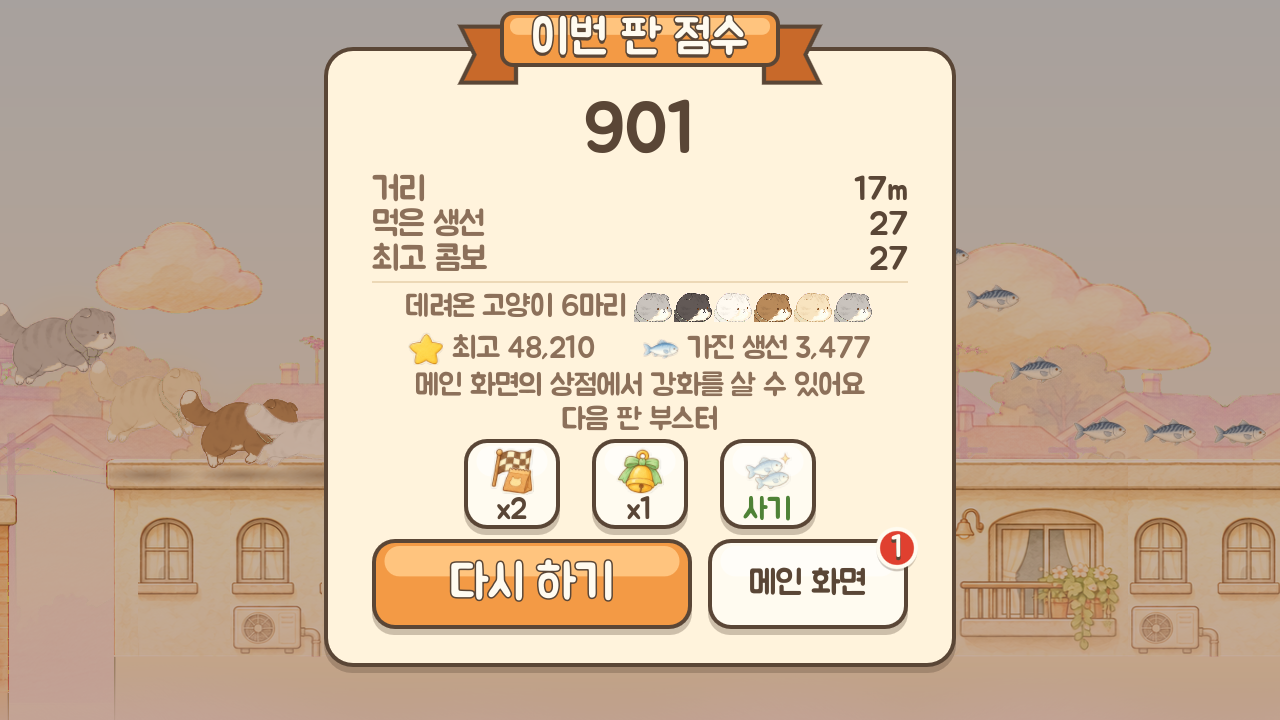
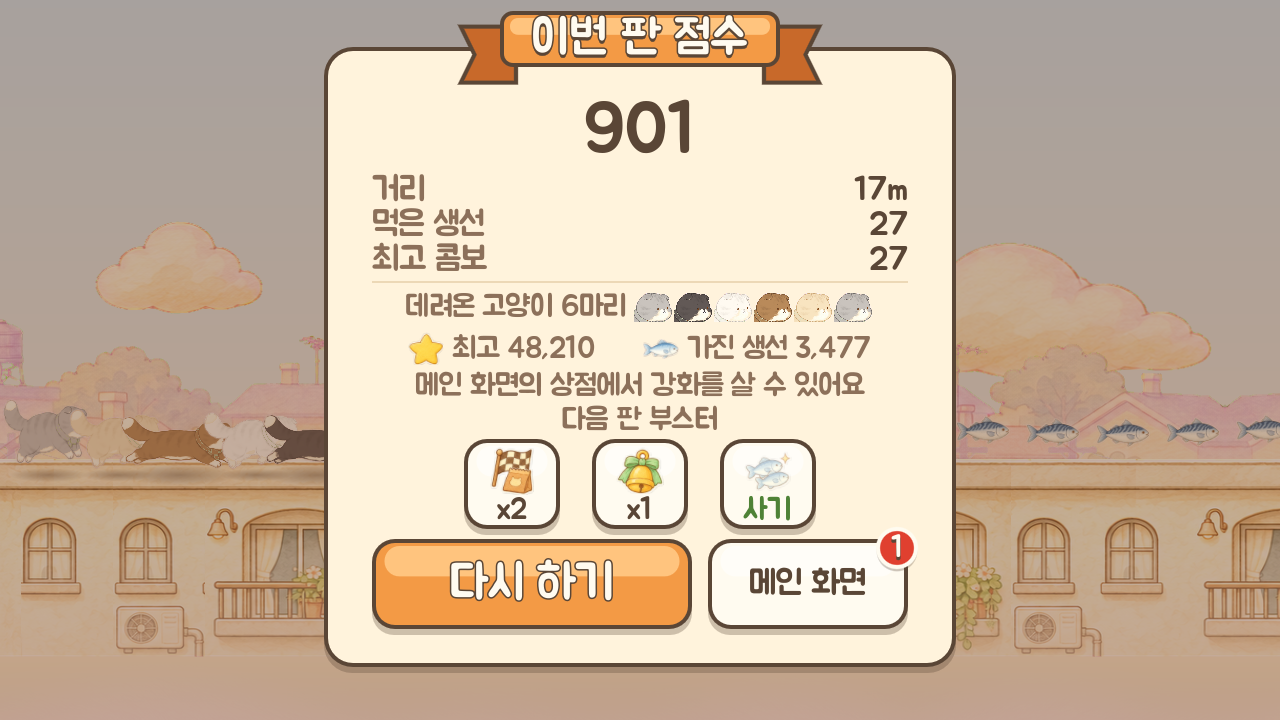
줄줄이 시험판 피드백: 부딪힘 A 확정(B·A/B 단추 지움), 아기 고양이 0.56배·간격 115/69, 6마리 PC 앞 시야 0.68→0.80초

diff --git a/review/cat-parade/README.md b/review/cat-parade/README.md
@@ -10,7 +10,8 @@
 | `gap6.gif` / `gap6_slow.gif` | 6마리 줄이 틈을 퐁퐁퐁 건넘 (실제 속도 / 4배 느리게) |
 | `tramp6.gif` | 트램펄린에서 줄이 차례로 튕김 |
 | `dash6.gif` | 질주: 줄도 같은 점프, 부순 화분은 뒤 고양이에게도 없음 |
-| `hit_a.gif` / `hit_b.gif` | 부딪힘 A(하트도 잃음) / B(하트 대신) — 맨 뒤 고양이가 "!" 하고 뛰어올라 뒤처짐 |
+| `hit_a.gif` | 부딪힘 A(하트도 잃음, 2026-11-13 확정) — 맨 뒤 고양이가 "!" 하고 뛰어올라 뒤처짐 |
+| `hit_b.gif` | (지난 시험) 부딪힘 B — 0.75배 때 기록, B는 지움 |
 | `fever_hud6_pc.png` / `_phone.png` | 6마리 골골 피버(은은한 금빛) + HUD 배수·얼굴 줄 |
 | `result6_pc.png` / `_phone.png` | 결과 카드 "데려온 고양이 6마리" + 얼굴 |
 
@@ -18,19 +19,19 @@
 
 ## 정한 수치 (scripts/balance.gd "줄줄이" 절)
 - 만남: 첫 10~15초, 그 뒤 15~25초 (봇 8판 측정: 첫 11.2~15.1초, 간격 15~25초). 화면 오른쪽 밖 옥상, 장애물·트램펄린·아이템 150px 밖, 그 자리 땅 생선은 치움.
-- 간격: 주인공~첫 고양이 105px, 그 뒤 92px (80은 캡처에서 몸이 겹쳐 넓힘). 길고양이 크기 0.75배.
+- 아기 고양이 0.56배, 간격: 주인공~첫 아기 115px, 아기끼리 69px (2026-11-13 피드백 반영, 전에는 0.75배·105·92). 결정 이유는 GAME_SPEC "시험판 뒤 결정".
 - 배수 = 1 + 0.2 x 마리 (1마리 x1.2 … 6마리 x2.2). 거리 점수와 생선 점수에 곱함. 피버 5마리부터.
 - 데려온 고양이 = 판이 끝날 때 줄에 남은 수 (떨어져 끝나도 그때 줄에 있던 수).
 
 ## 앞이 보이는 시간 (6마리, 가장 빠른 속도 950px/초)
-줄이 길면 주인공을 화면 오른쪽으로 옮김: 0~3마리 340px(그대로), 6마리 635px.
-| 화면 | 지금(줄 없음) | 6마리 | 변화 |
+줄이 길면 주인공을 화면 오른쪽으로 옮김 (맨 뒤 아기 발끝이 화면 왼쪽에서 58px 안). 0~3마리는 340px 그대로.
+| 화면 | 줄 없음 | 6마리 전 (0.75배, 주인공 x 635) | 6마리 지금 (0.56배, 주인공 x 518) |
 |---|---|---|---|
-| PC 1280 | 940px = 0.99초 | 645px = 0.68초 | -31% |
-| 휴대폰 (게임 폭 1558) | 1218px = 1.28초 | 923px = 0.97초 | -24% |
-PC 6마리에서 앞이 0.68초뿐이라 빠른 단계에서 위험해질 수 있음. 사용자가 느낌을 본 뒤 정할 것: 간격 줄이기(겹침), 6마리 때 화면 살짝 멀리(질주처럼 0.92배), 또는 이대로.
+| PC 1280 | 940px = 0.99초 | 645px = 0.68초 | 762px = **0.80초** |
+| 휴대폰 (게임 폭 1558) | 1218px = 1.28초 | 923px = 0.97초 | 1040px = **1.09초** |
+자동 테스트 `test_6마리일_때_PC_앞_시야_0_8초_이상`이 지킴. GIF·캡처는 0.56배로 다시 찍음 (hit_b.gif만 예전).
 
-## 밸런스 (봇): [balance.md](balance.md)
+## 밸런스 (봇): [balance.md](balance.md) (0.75배·A/B 시험 때 기록, 크기는 판정과 무관)
 
 ## 알려진 한계 (시험판)
 - 길고양이 그림은 주인공 그림 색만 바꾼 것: 목도리 자리는 연한 털 목둘레로 보임.

diff --git a/GAME_SPEC.md b/GAME_SPEC.md
@@ -159,6 +159,13 @@
 ### 다음 단계
 - 그림 없이 지금 고양이 색만 바꿔 따라오게 한 시험판으로 "귀엽고 지키고 싶어지는가"를 확인한다.
 
+### 시험판 뒤 결정 (2026-11-13, cat-parade 브랜치)
+- 부딪힘은 A로 확정: 하트도 잃고 맨 뒤 고양이도 도망간다 (B "하트 대신 도망"은 지움).
+- 따라오는 고양이는 "아기 고양이"다. 크기는 주인공의 0.56배(0.55~0.6은 PC에서 몸 폭 차이 7px뿐이라 앞 시야를 위해 작은 쪽, 하한보다 한 칸 위).
+- 간격: 아기끼리 69px(0.75배 때 몸이 안 겹치던 92를 크기에 비례), 주인공~첫 아기 115px(주인공 엉덩이 뒤로 아기 얼굴이 나오는 최소), 맨 뒤 아기 발끝은 화면 왼쪽에서 58px.
+- 6마리일 때 주인공은 화면 x 340 → 518 (전에는 635). 가장 빠른 속도(950px/초)에서 앞이 보이는 시간 PC 0.68 → 0.80초, 휴대폰 0.97 → 1.09초.
+- 아기 고양이 그림은 품종·무늬가 있는 아이들(치즈·고등어·턱시도·삼색·젖소·회색)로 제대로 그린다. 색만 바꾼 그림은 쓰지 않는다. 머리가 크고 다리·꼬리가 짧은 아기 비율, 주인공과 같은 색연필 그림체. 초록 목도리는 주인공 전용이고 아기마다 작은 특징(방울·리본·접힌 귀 등) 하나. 시안: review/cat-parade/kitten/.
+
 ## 단계별 진행
 | 단계 | 버전 | 내용 | 확인할 것 |
 |---|---|---|---|
